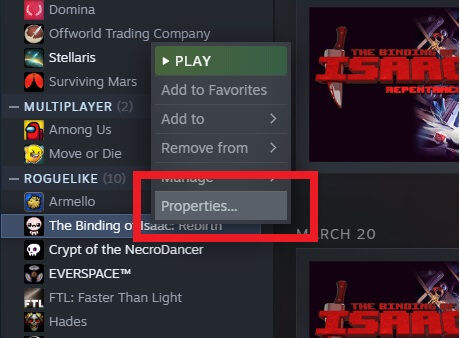
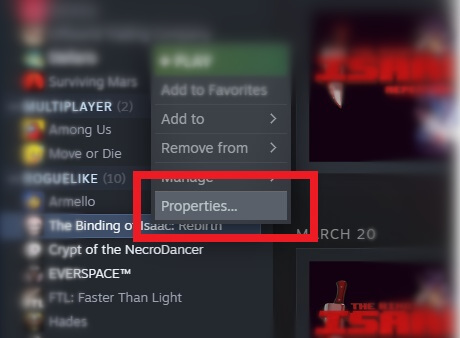
Add links to download, blur instructuons

diff --git a/src/screens/Download.vue b/src/screens/Download.vue
@@ -1,22 +1,25 @@
 <template>
   <div class="downloadScreen">
     <h1>{{"download" | t($store.state.locale)}}</h1>
-    
+
     <div class="panel-container">
-      <div class="panel hoverable">
+      <a class="panel hoverable" href="https://steamcommunity.com/sharedfiles/filedetails/?id=2433361645" target="_blank">
         <h2>Steam</h2>
         <p>{{"useSteam" | t($store.state.locale)}}</p>
-      </div>
+        <div>{{"download" | t($store.state.locale)}}</div>
+      </a>
 
-      <div class="panel hoverable">
+      <a class="panel hoverable" href="https://moddingofisaac.com/mod/3649/isaac-on-twitch-reloaded" target="_blank">
         <h2>Modding Of Isaac</h2>
         <p>{{"useMOI" | t($store.state.locale)}}</p>
-      </div>
+        <div>{{"download" | t($store.state.locale)}}</div>
+      </a>
 
-      <div class="panel hoverable">
+      <a class="panel hoverable" href="https://github.com/VirtualZer0/IsaacOnTwitchReloaded/archive/refs/heads/master.zip" target="_blank">
         <h2>{{"direct" | t($store.state.locale)}}</h2>
         <p>{{"useDirect" | t($store.state.locale)}}</p>
-      </div>
+        <div>{{"download" | t($store.state.locale)}}</div>
+      </a>
 
     </div>
 
